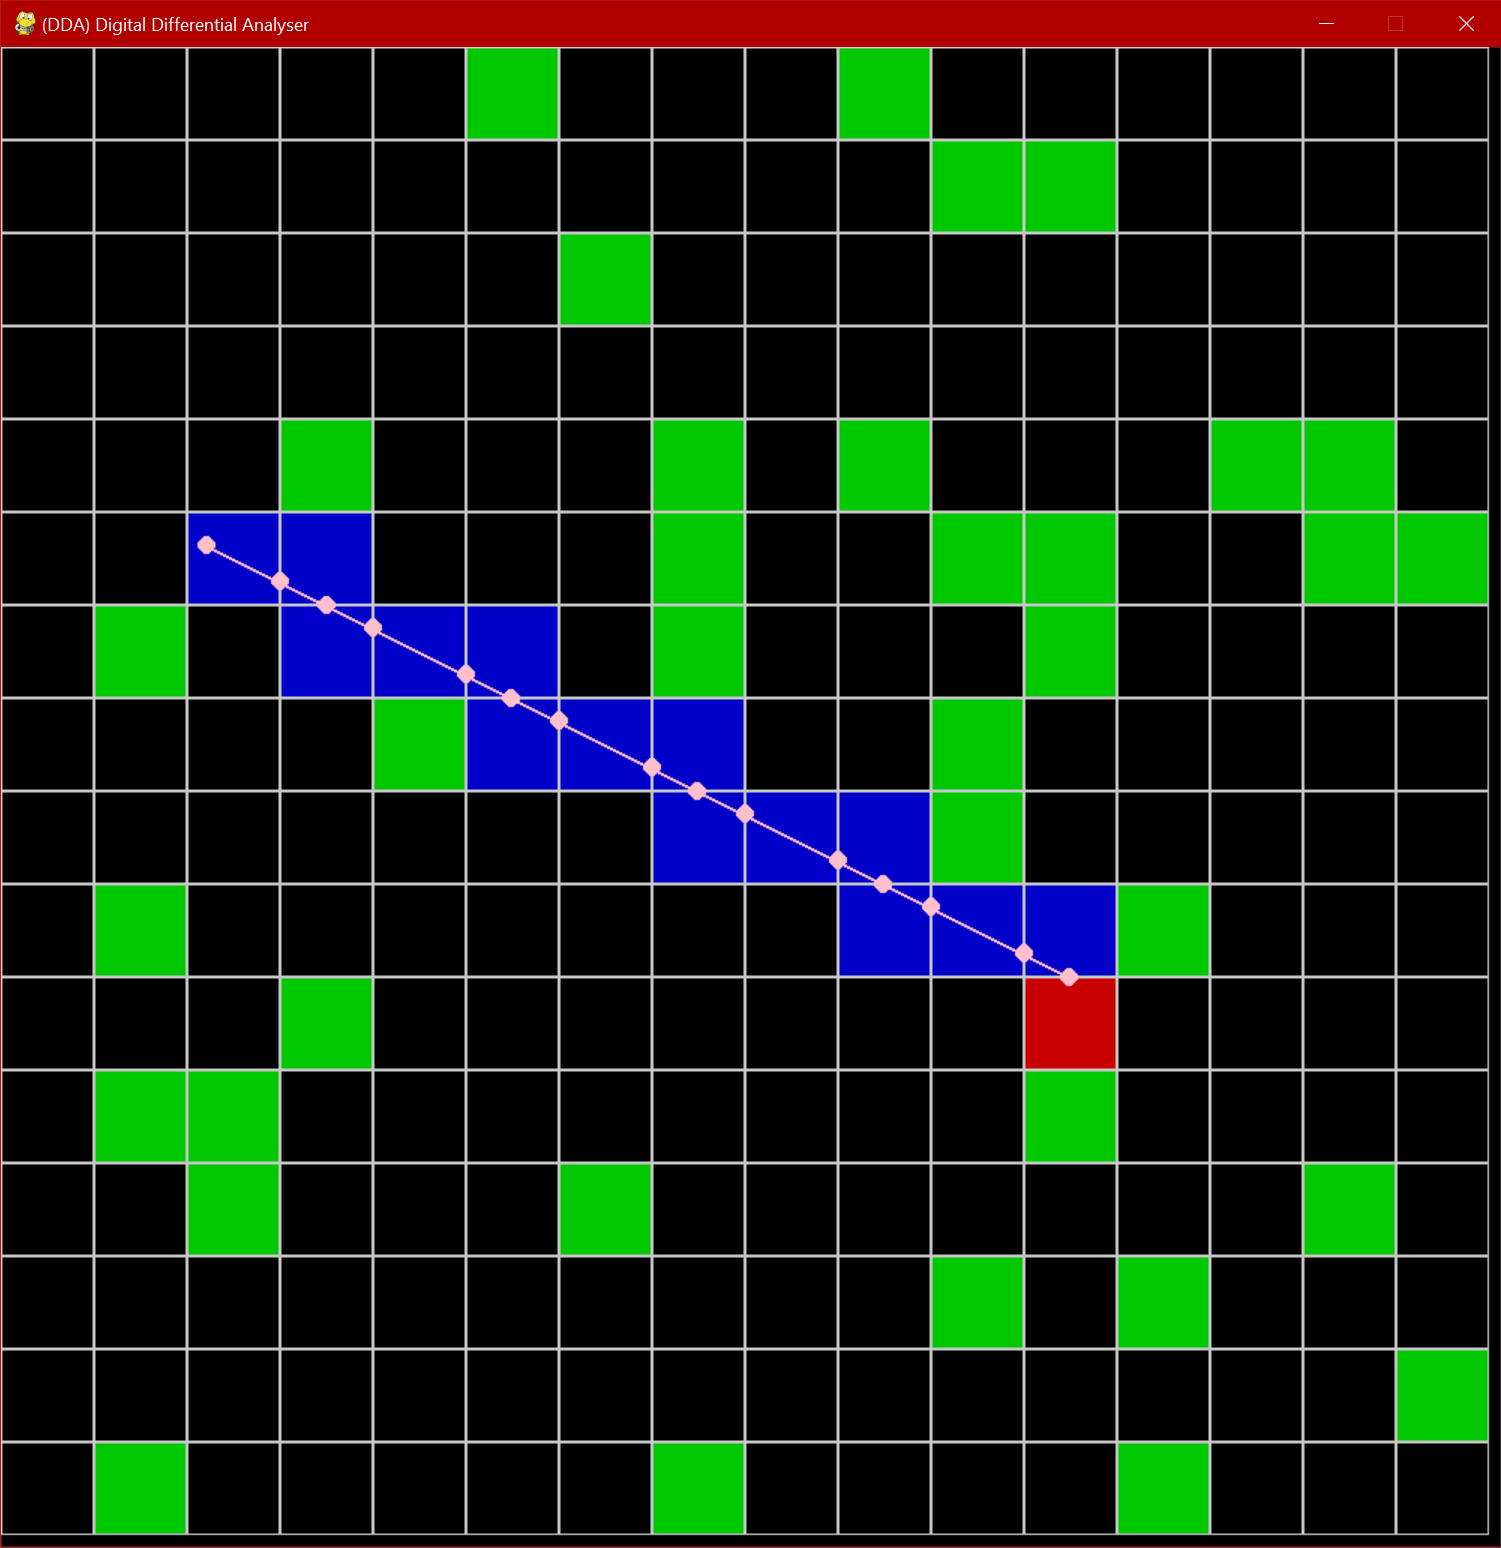
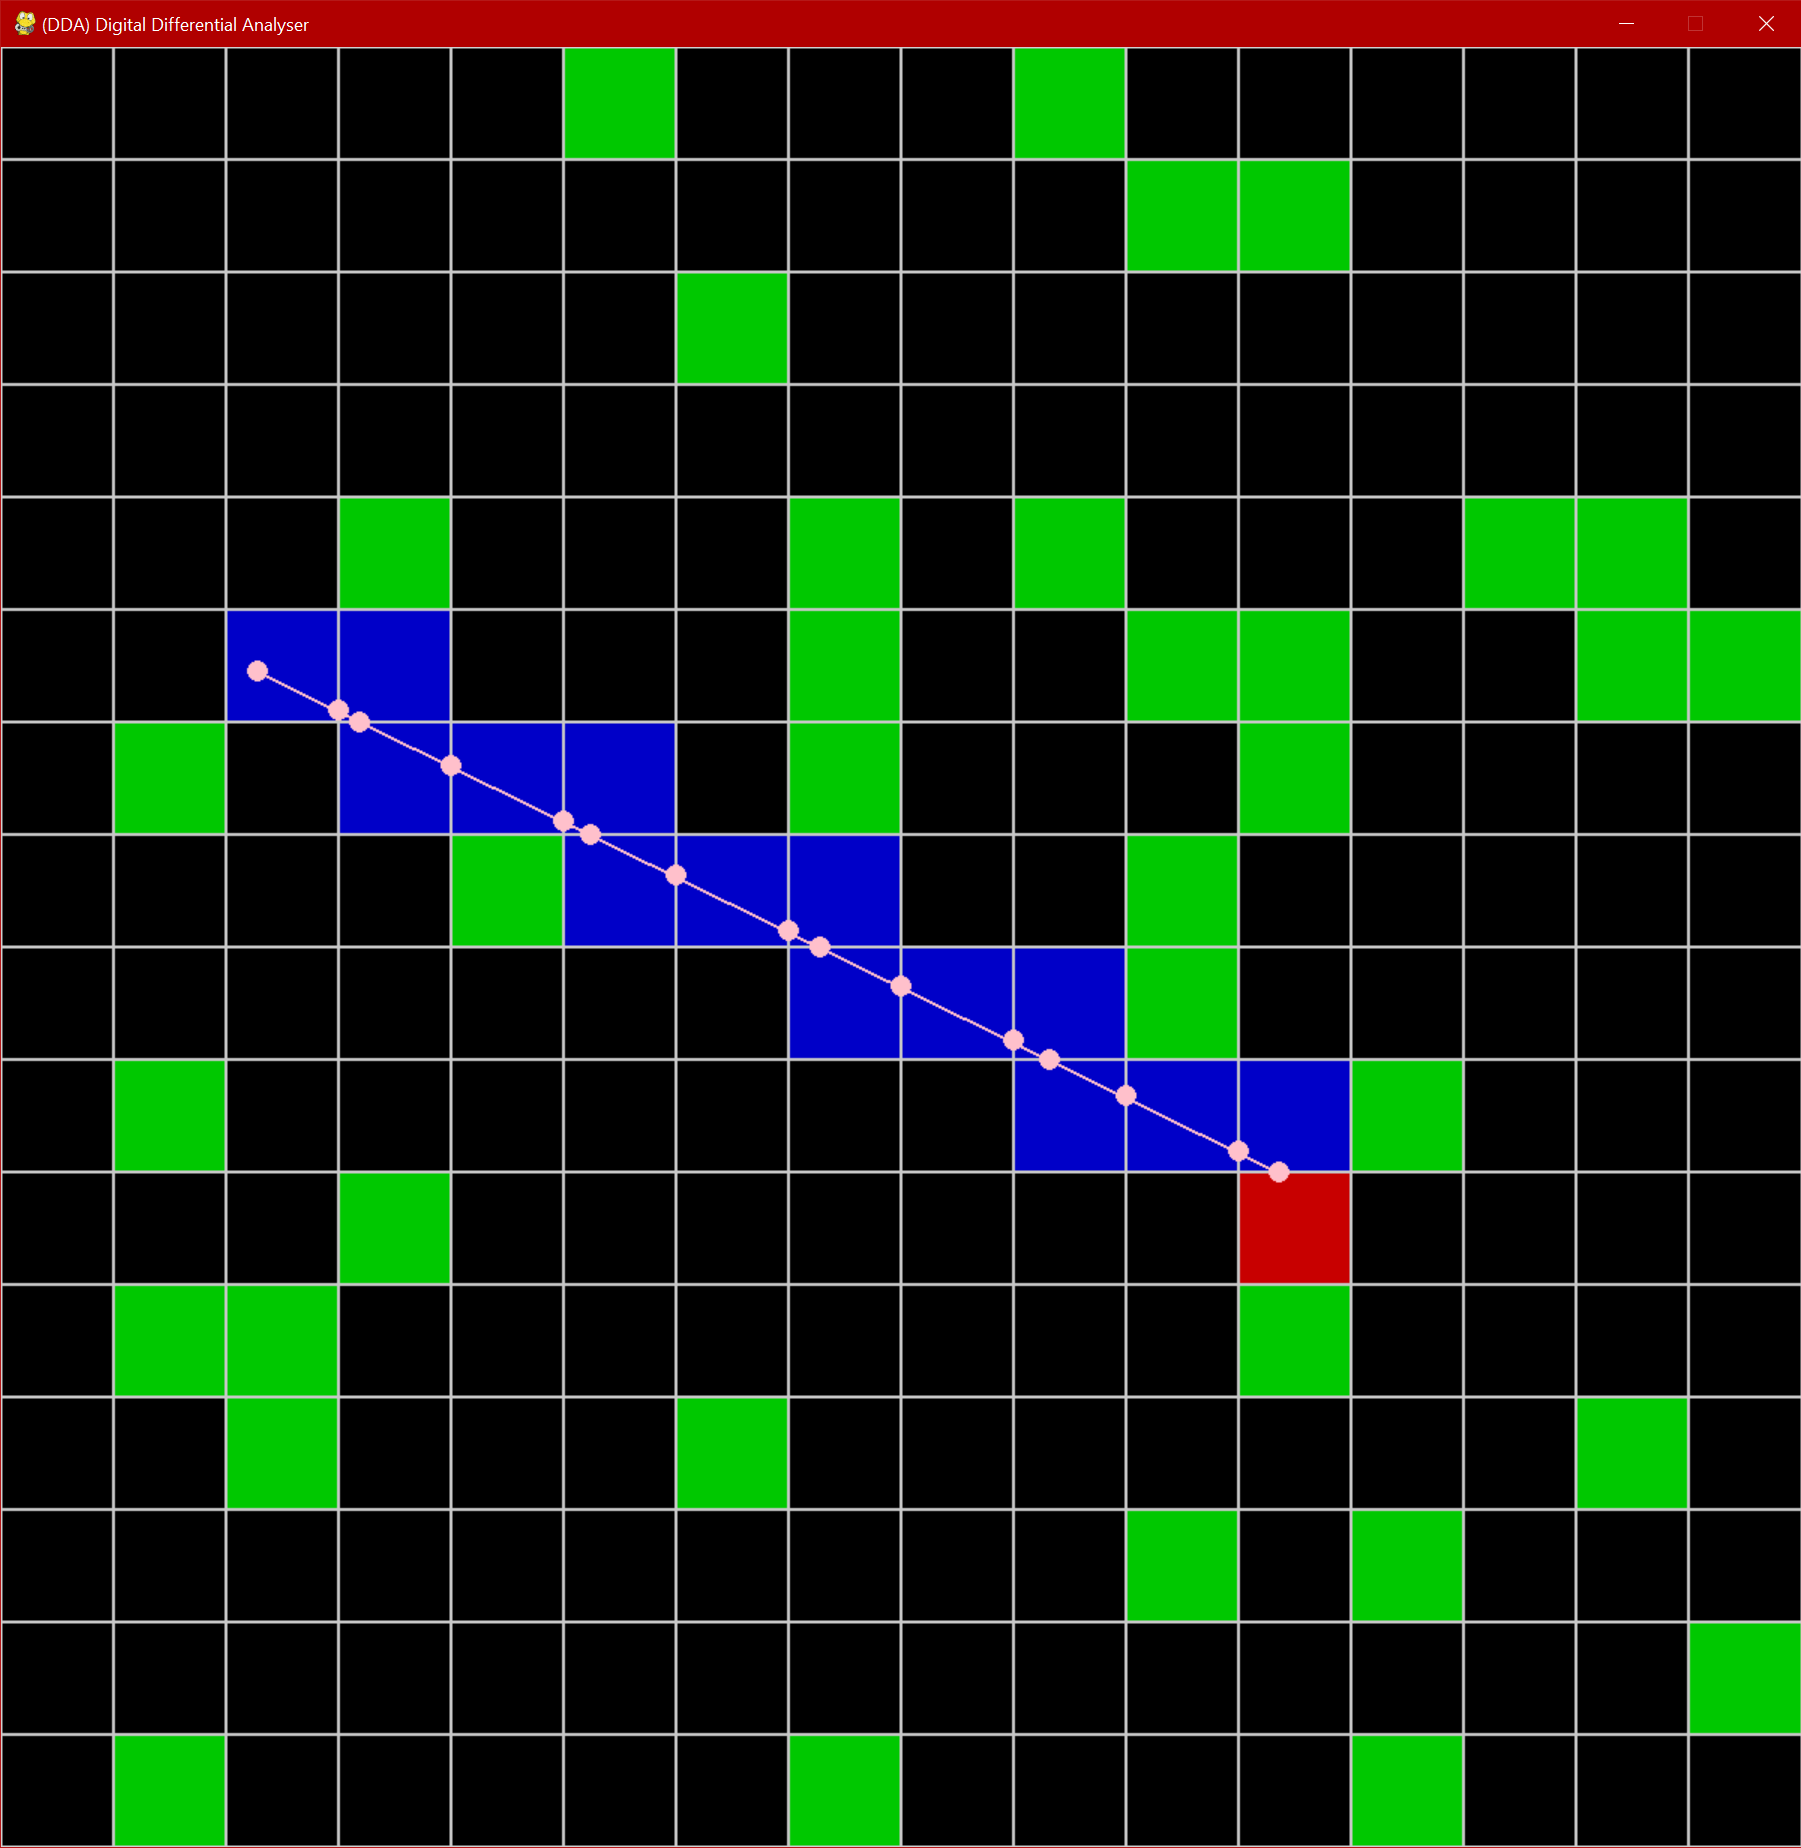
Updated images for consistent resolution

diff --git a/multilevel_dda.py b/multilevel_dda.py
@@ -1112,7 +1112,7 @@ grid = np.array([
     [1, 0, 0, 1]
 ])
 n = 2
-L = 2
+L = 1
 
 grid_list = multilevel_grid(grid, n, L)
 
@@ -1120,10 +1120,10 @@ grid_list = multilevel_grid(grid, n, L)
 grid_max_y, grid_max_x = grid.shape
 
 # random grid
-tau = 0.999
-grid_max_y, grid_max_x = 256, 256
+tau = 0.9
+grid_max_y, grid_max_x = 16, 16
 n = 2
-L = 8
+L = 0
 rng = np.random.default_rng(0)
 grid = rng.uniform(0, 1, (grid_max_y, grid_max_x))
 grid[grid < tau] = 0
